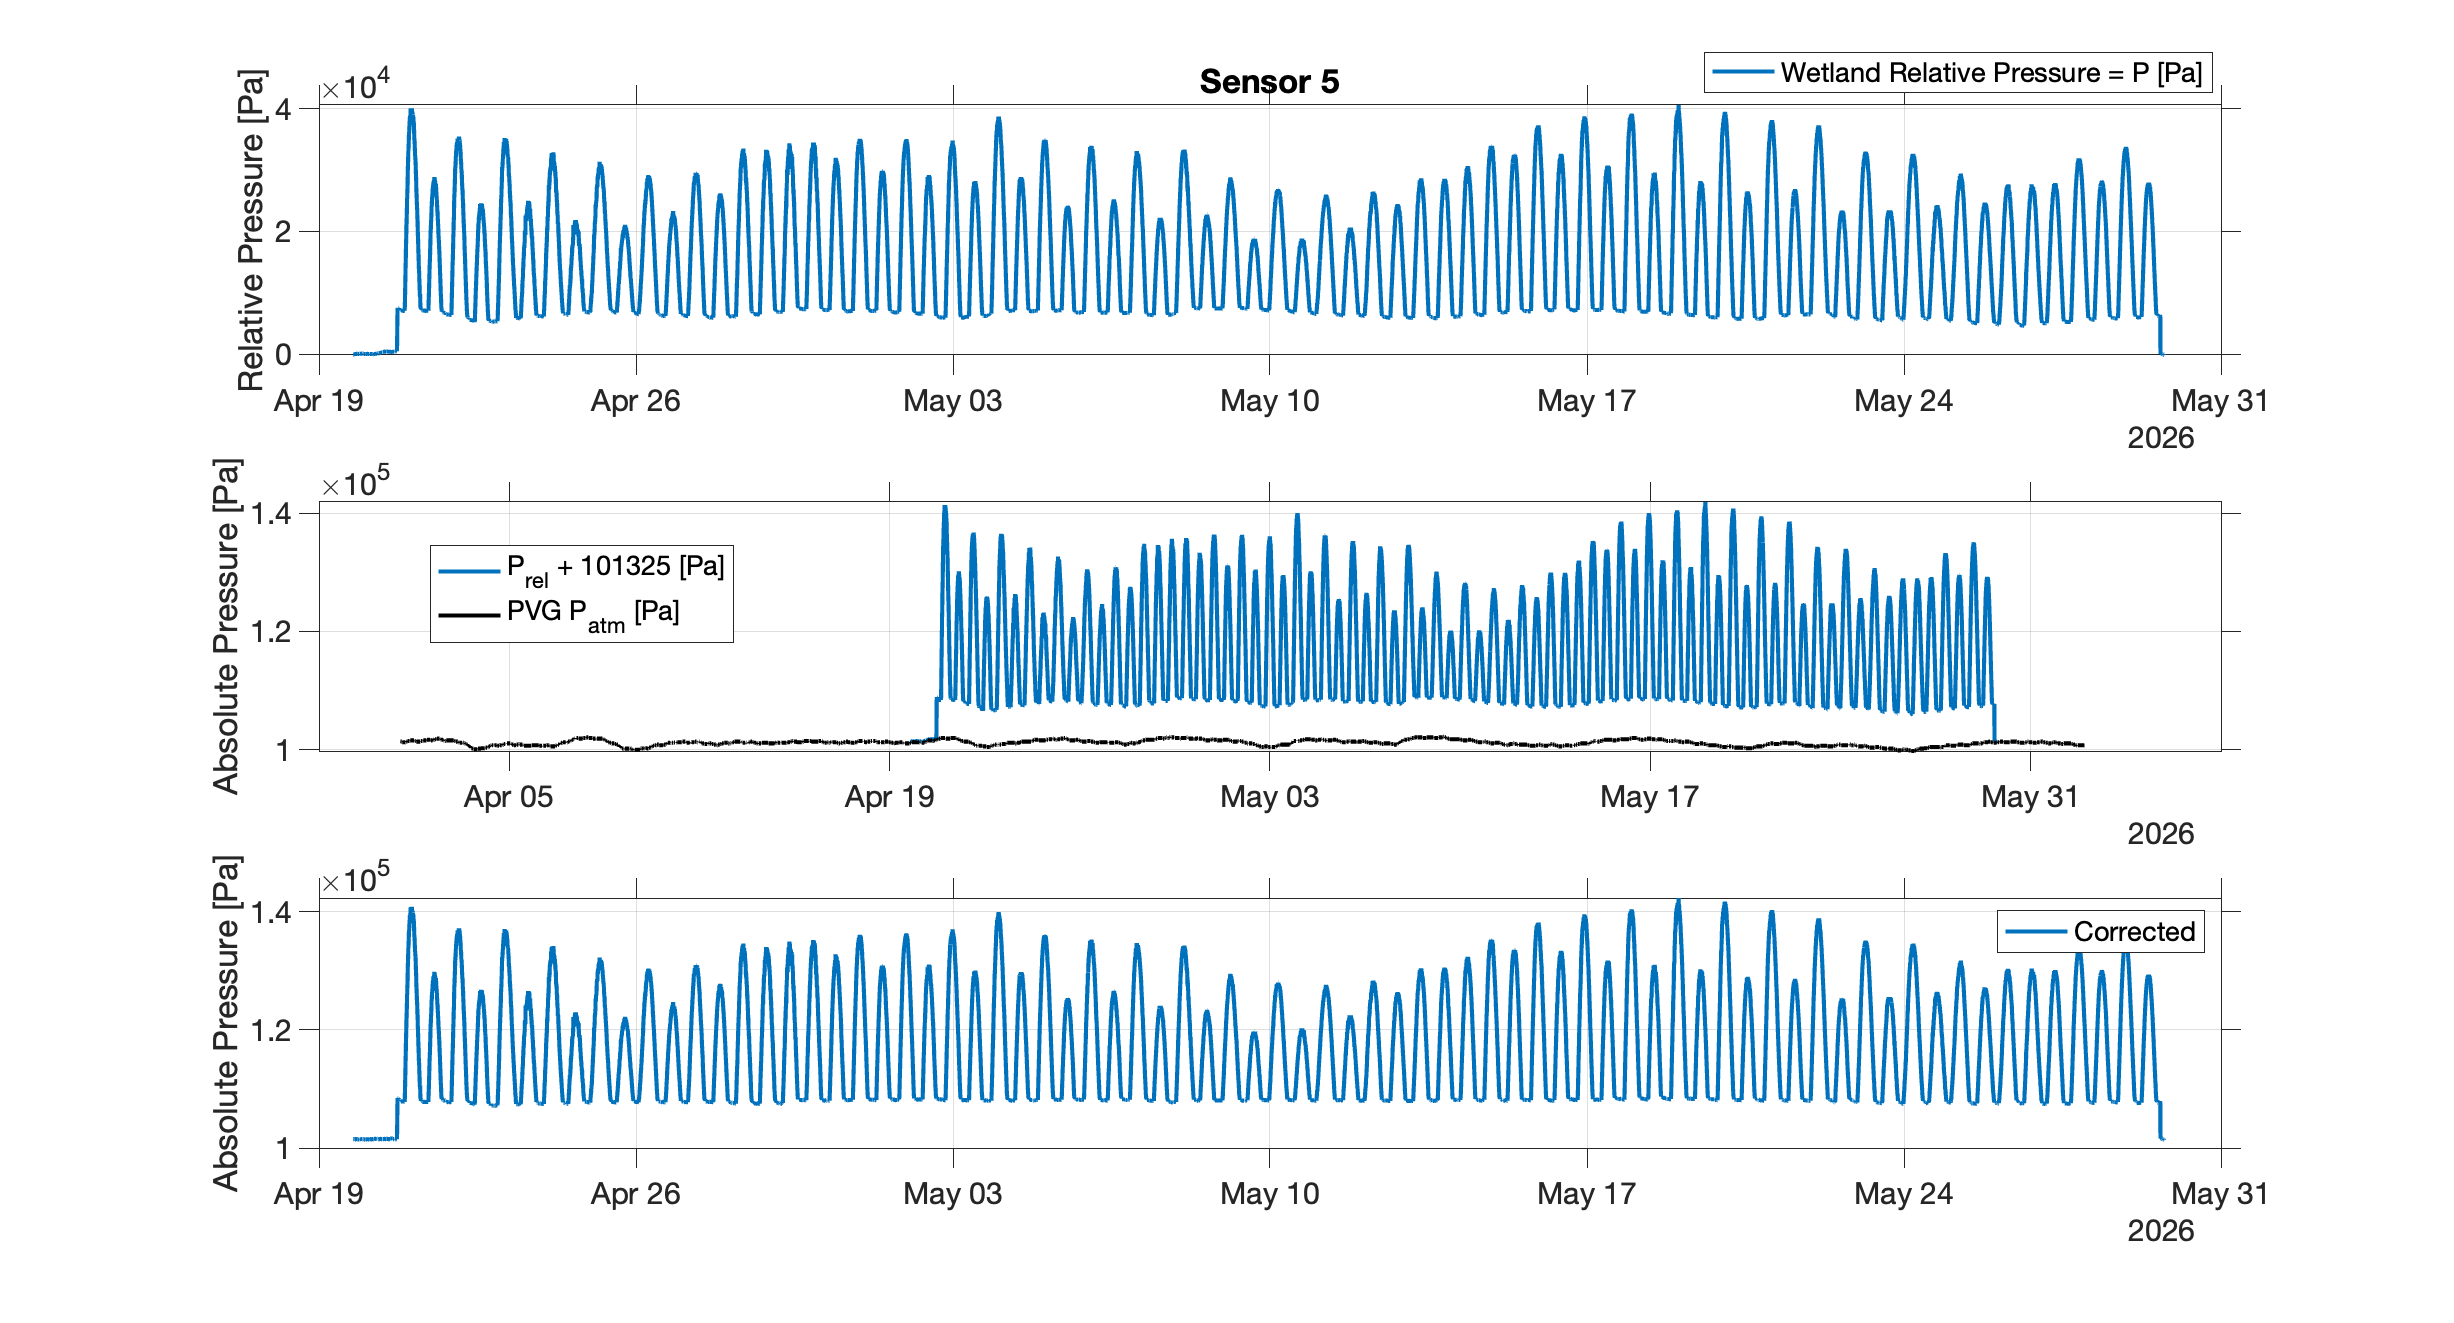
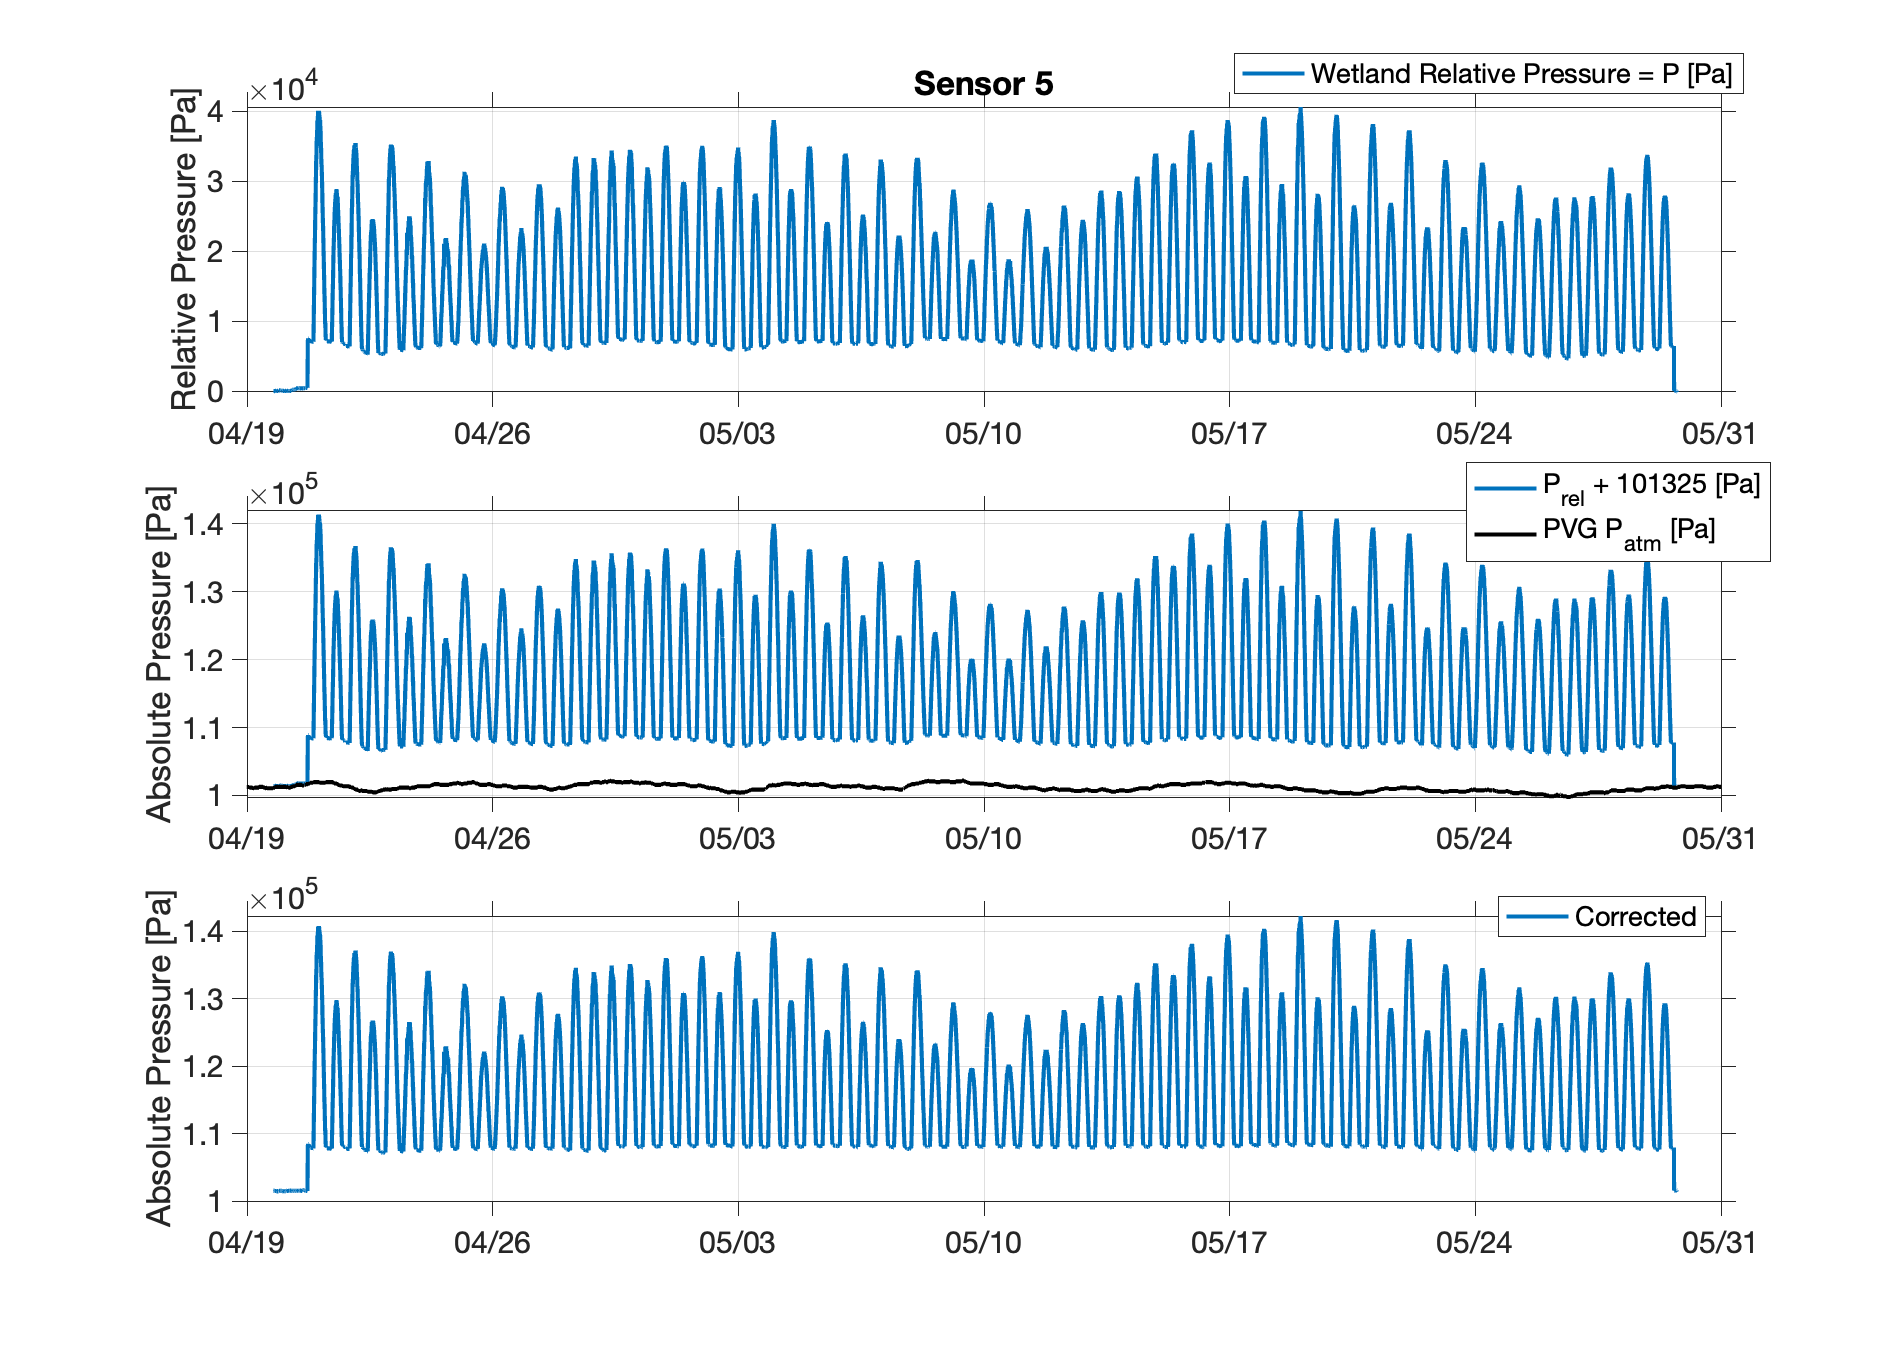
scripts, edit axis atm. pressure example

Changed region(s): [[0.062, 0.031, 0.9306, 0.9607], [0.4653, 0.031, 0.5584, 0.093]]

diff --git a/scripts/quick_read_plot_nanhui.m b/scripts/quick_read_plot_nanhui.m
@@ -2,6 +2,8 @@
 % m williams
 % read data collected/sent by Zhi Li (Tongji University)
 
+set(0, 'DefaultAxesLineStyleOrder', {'-' '--'}); % make solid and then dashed line.
+
 clear
 close all
 
@@ -89,7 +91,7 @@ plot(dPVG.time+hours(8),dPVG.pressurePa,'k'), legend('P_{rel} + 101325 [Pa]','PV
 ylabel('Absolute Pressure [Pa]')
 
 
-d.PresAtm_PVG_Pa = interp1(ts_PVG,dPVG.pressurePa,ts_Nanhui_utc);
+% d.PresAtm_PVG_Pa = interp1(ts_PVG,dPVG.pressurePa,ts_Nanhui_utc);
 
 
 subplot(3,1,3)
@@ -98,7 +100,36 @@ ylabel('Absolute Pressure [Pa]')
 legend('Corrected')
 
 end
+
 linkaxes(ax,'x')
+
+
+return
+
+%%
+close all
+ixl = 1;
+for ix = [1 2 6 8 11]
+    fn = ['~/Research/nanhui/Sampling_Data_of_Nanhui_Tidal_Flat/20260419-20260529-',num2str(ix),'.csv'];
+    d = readtable(fn);
+
+    d.Pres_Pa = d.Pressure_WaterLevel_mmH_O_4_C_*conv_mmh2o_Pa; % conversion mm h2o to pascals
+    d.Pres_Pa_abs =d.Pres_Pa + 101325; % put atmospheric pressure back (const.
+ts_PVG = datenum(dPVG.time);
+ts_Nanhui_utc = datenum(d.Time) - 8/24; % fix time zone here. 
+
+d.PresAtm_PVG_Pa = interp1(ts_PVG,dPVG.pressurePa,ts_Nanhui_utc);
+figure(300)
+plot(d.Time,d.Pres_Pa_abs-d.PresAtm_PVG_Pa[phone redacted]), hold all
+ylabel('Absolute Pressure [Pa]')
+title('Corrected Sensor Pressure')
+legentry{ixl} = ['site ',num2str(ix)]
+ixl = ixl+1; % legend entry without having to start at index ix = 1.
+end
+legend(legentry)
+% legend('Corrected')
+
+
 
 
 % Need to compare to  芦潮港(南汇嘴)

diff --git a/scripts/plot_pvg_weather.m b/scripts/plot_pvg_weather.m
@@ -13,6 +13,24 @@ dat = readtable('../external_data/ZSPD_9_CN_20260401_to_20260601.csv');
 dat.tempC = (dat.temp - 32)*5/9; % F to C
 dat.pressurePa = dat.pressure*3386.39; % inches of mercury to pascals
 dat.wspd_ms = dat.wspd*0.44704; % mph to meters per second (wind)
+
+
+% %U (East-West Component): U=−S×sin(Φ)U=−S×sin(Φ)
+% V (North-South Component): V=−S×cos(Φ)V=−S×cos(Φ)
+% Where:
+% SS is the wind speed in m/s.
+% ΦΦ is the meteorological wind direction angle in radians.
+% Make sure to convert the wind direction angle from degrees to radians before using these formulas. The atan2 function can also be used to compute the wind direction angle from the U and V components.
+dat.Uw_ms = -1*dat.wspd_ms.*sind(dat.wdir);
+dat.Vw_ms = -1*dat.wspd_ms.*cosd(dat.wdir);
+
+% check the conversion is ok:
+figure
+plot(sqrt(dat.Uw_ms.^2 + dat.Vw_ms.^2),'k')
+hold all
+plot(dat.wspd_ms,'--')
+
+
 %%
 figure
 subplot(4,1,1)